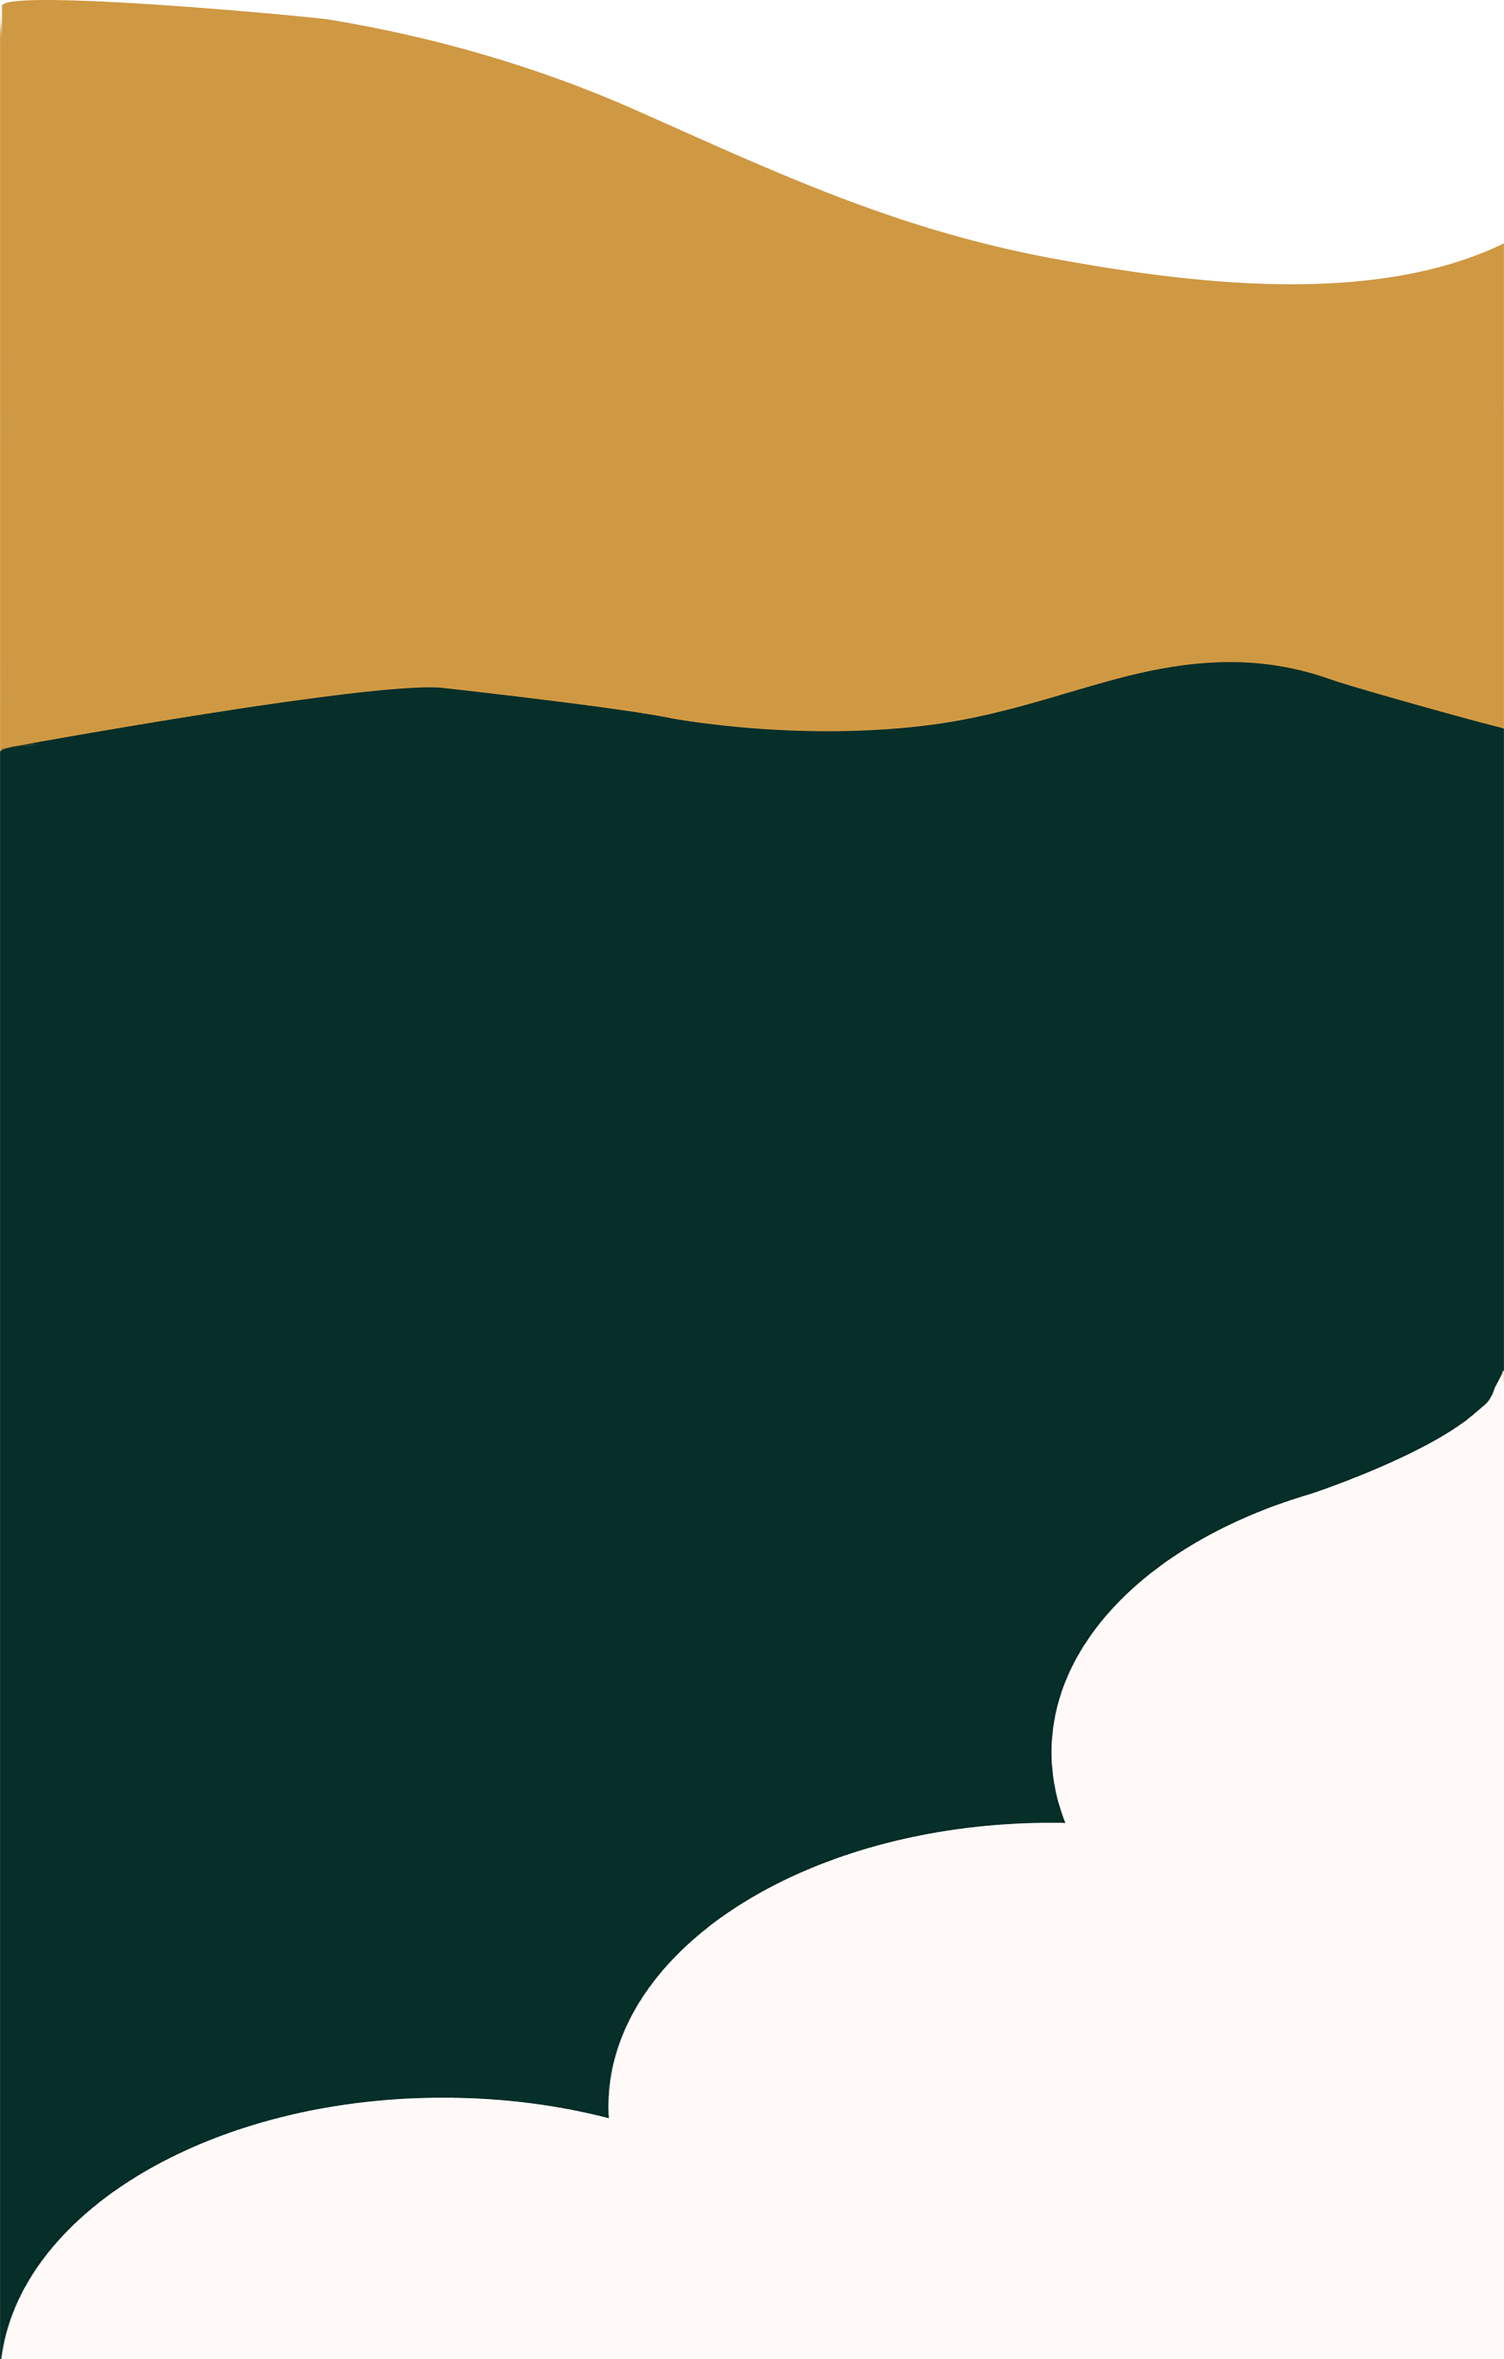
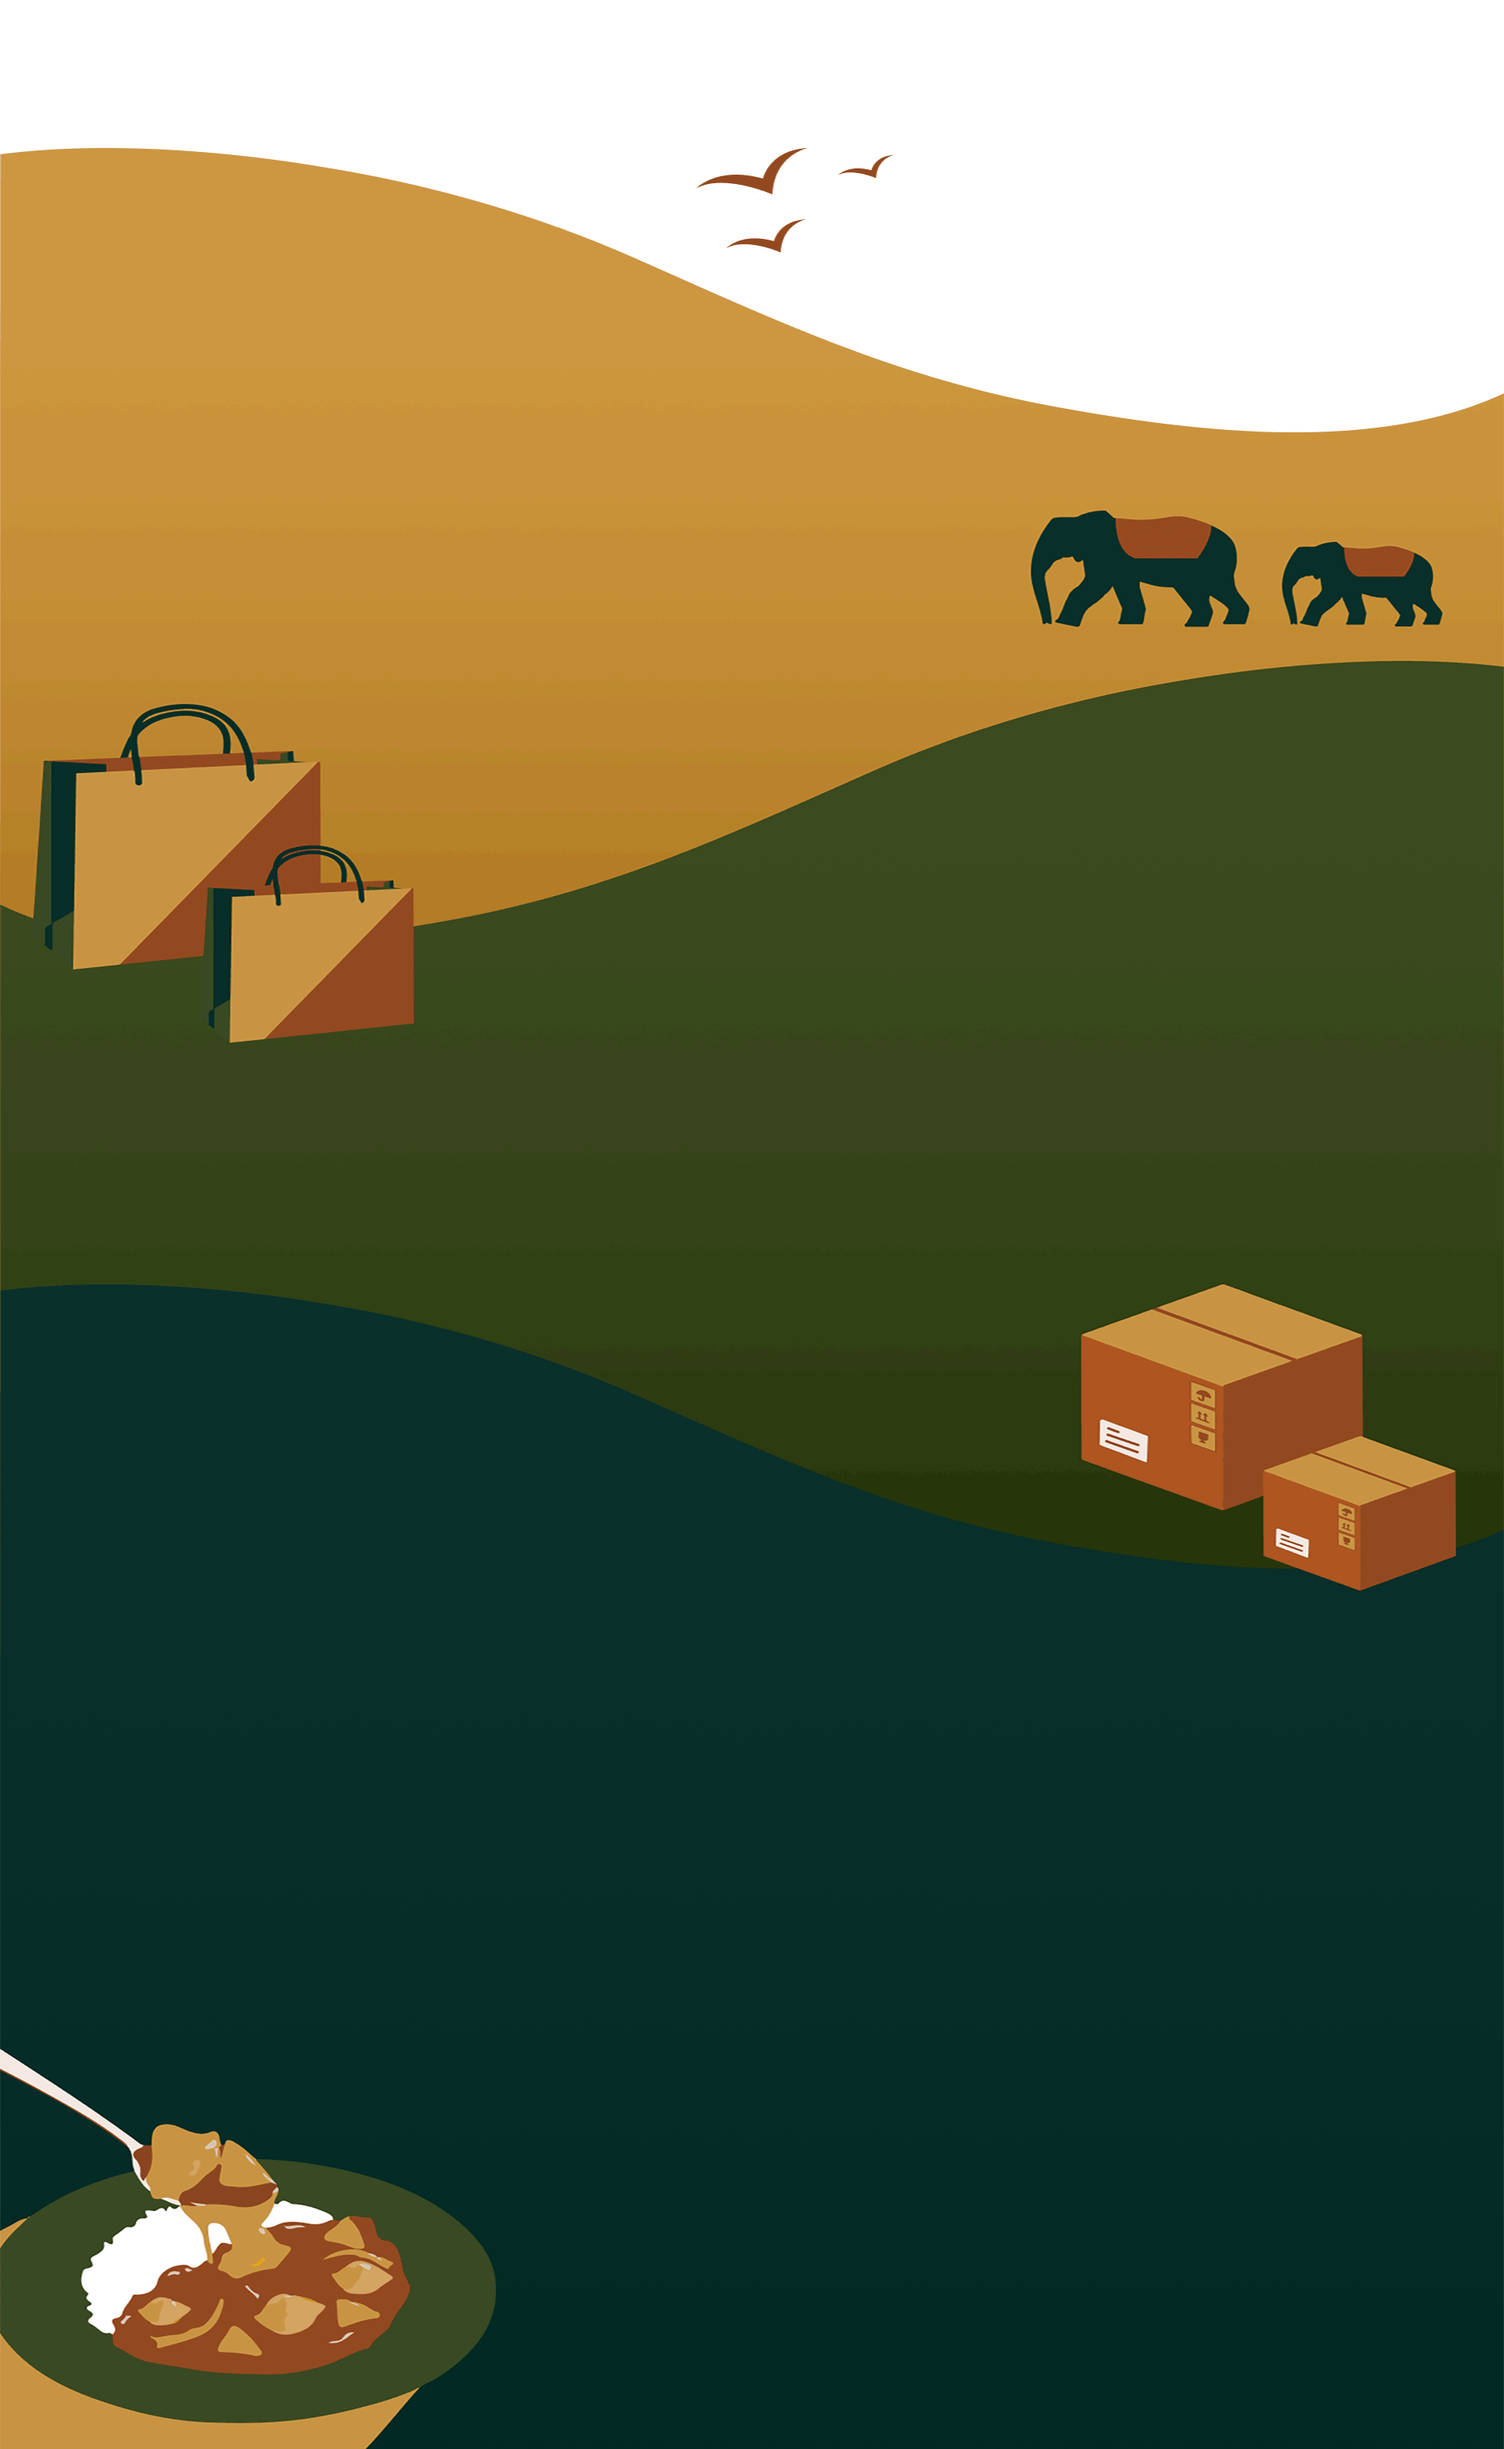
0520

diff --git a/css/contact.css b/css/contact.css
@@ -3,7 +3,7 @@
 main {
     background-image: url(./image/contact/main-bg.png);
     background-repeat: no-repeat;
-    background-size: contain cover;
+    background-size: cover;
     background-position: bottom;
 }
 
